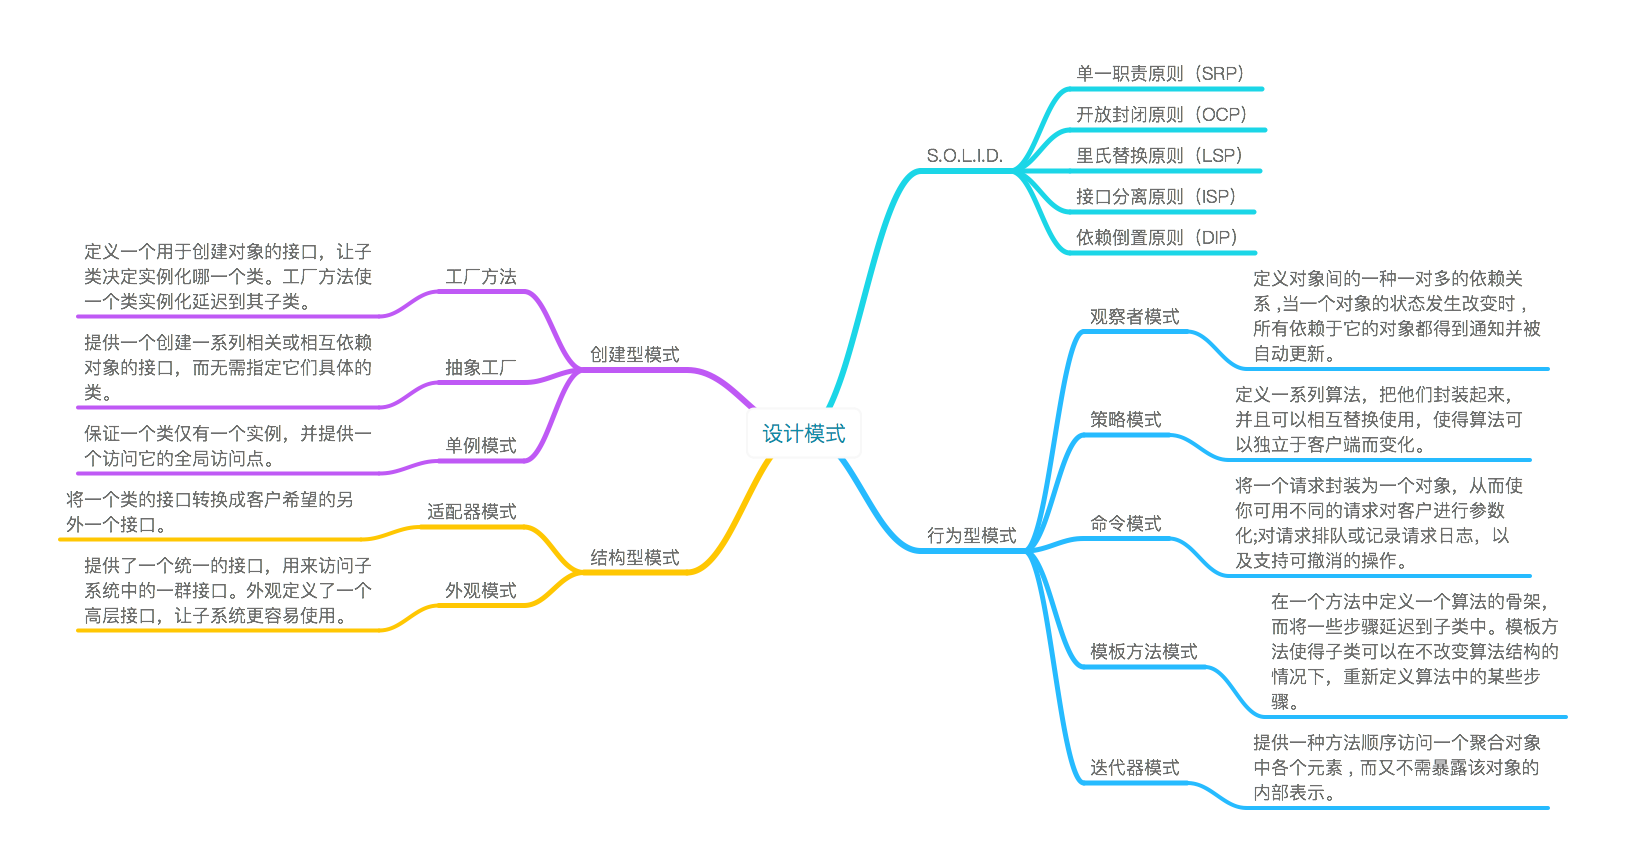
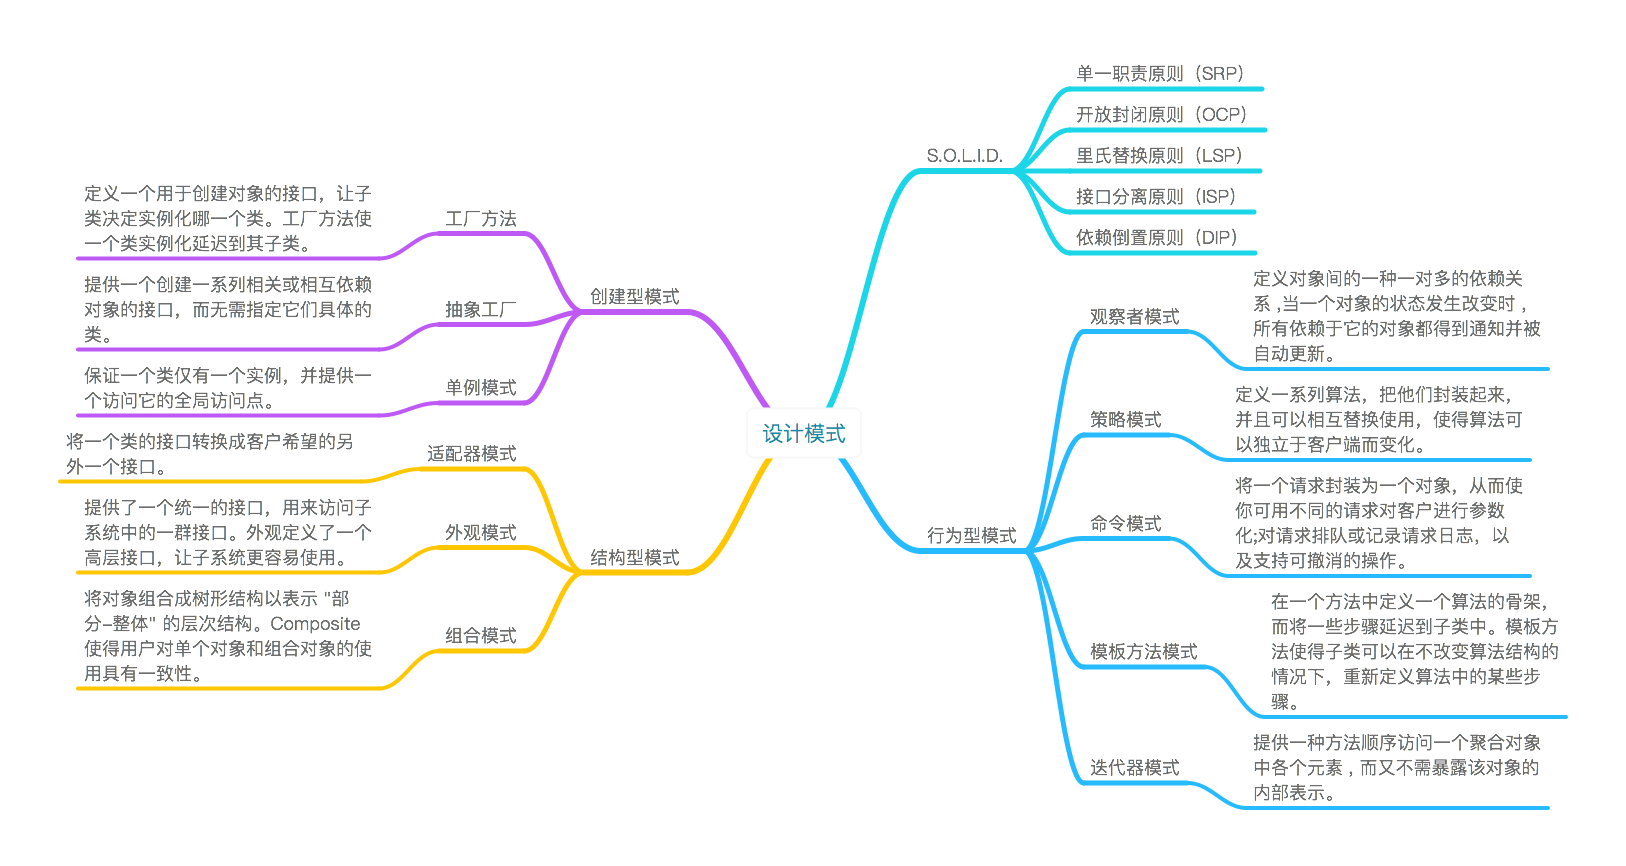
feat: composite pattern
add code
add readme

Changed region(s): [[0.0308, 0.2182, 0.492, 0.8106]]

diff --git a/structural/composite.py b/structural/composite.py
@@ -1,0 +1,50 @@
+#!/usr/bin/env python
+# -*- coding: utf-8 -*-
+
+
+class Menu(object):
+    def __init__(self):
+        self.items = []
+
+    def add(self, menu):
+        self.items.append(menu)
+
+    def printer(self):
+        for item in self.items:
+            item.printer()
+
+
+class MenuItem(object):
+    def __init__(self, name, price):
+        self.name = name
+        self.price = price
+
+    def add(self):
+        raise AttributeError('MenuItem is not supported add methid')
+
+    def printer(self):
+        print(self.name, self.price)
+
+
+if __name__ == '__main__':
+    menu = Menu()
+
+    launch_item1 = MenuItem('meet', 15)
+    launch_item2 = MenuItem('rice', 7)
+    launch_item3 = MenuItem('noddles', 10)
+    menu.add(launch_item1)
+    menu.add(launch_item2)
+    menu.add(launch_item3)
+
+    drink_menu = Menu()
+
+    drink_item1 = MenuItem('milk', 5)
+    drink_item2 = MenuItem('tea', 4)
+    drink_item3 = MenuItem('coffee', 6)
+    drink_menu.add(drink_item1)
+    drink_menu.add(drink_item2)
+    drink_menu.add(drink_item3)
+
+    menu.add(drink_menu)
+
+    menu.printer()

diff --git a/structural/README.md b/structural/README.md
@@ -2,6 +2,7 @@
 
 - [适配器模式（Adapter）](#适配器模式)
 - [外观模式（Facade）](#外观模式)
+- [组合模式（Composite）](#组合模式)
 
 # 适配器模式
 
@@ -158,3 +159,72 @@ if __name__ == '__main__':
     computer.shut_down()
 ```
 
+## 组合模式
+
+### 定义
+
+将对象组合成树形结构以表示 "部分-整体" 的层次结构。Composite 使得用户对单个对象和组合对象的使用具有一致性。
+
+### 动机
+
+组合对象和单一对象拥有一致性，然客户端可以一起处理。
+
+### 适用性
+
+- 想表示对象的部分 -整体层次结构。
+- 希望用户忽略组合对象与单个对象的不同，用户将统一地使用组合结构中的所有对象。
+
+### 实现
+
+```python
+#!/usr/bin/env python
+# -*- coding: utf-8 -*-
+
+
+class Menu(object):
+    def __init__(self):
+        self.items = []
+
+    def add(self, menu):
+        self.items.append(menu)
+
+    def printer(self):
+        for item in self.items:
+            item.printer()
+
+
+class MenuItem(object):
+    def __init__(self, name, price):
+        self.name = name
+        self.price = price
+
+    def add(self):
+        raise AttributeError('MenuItem is not supported add methid')
+
+    def printer(self):
+        print(self.name, self.price)
+
+
+if __name__ == '__main__':
+    menu = Menu()
+
+    launch_item1 = MenuItem('meet', 15)
+    launch_item2 = MenuItem('rice', 7)
+    launch_item3 = MenuItem('noddles', 10)
+    menu.add(launch_item1)
+    menu.add(launch_item2)
+    menu.add(launch_item3)
+
+    drink_menu = Menu()
+
+    drink_item1 = MenuItem('milk', 5)
+    drink_item2 = MenuItem('tea', 4)
+    drink_item3 = MenuItem('coffee', 6)
+    drink_menu.add(drink_item1)
+    drink_menu.add(drink_item2)
+    drink_menu.add(drink_item3)
+
+    menu.add(drink_menu)
+
+    menu.printer()
+```
